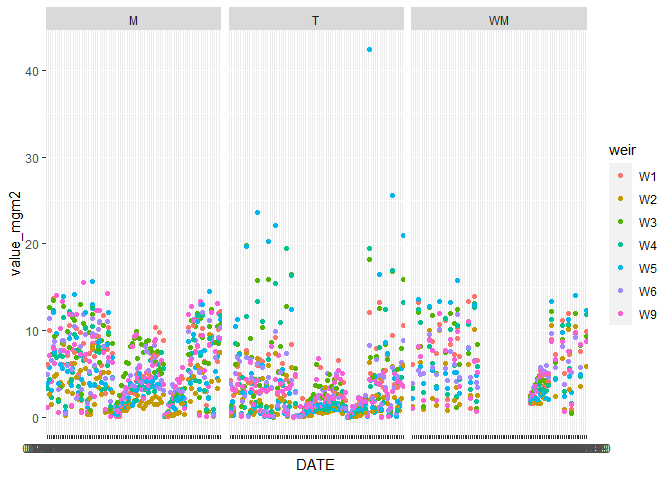
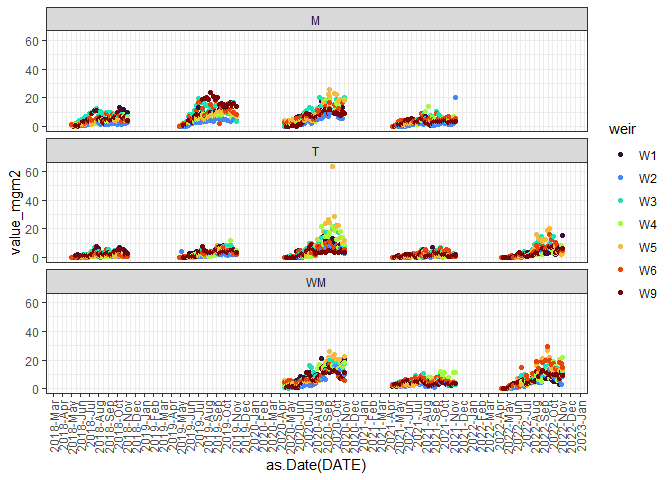
updating viz and md file

diff --git a/rfu-calculation-vignette.md b/rfu-calculation-vignette.md
@@ -3,13 +3,15 @@ rfu-calculation-vignette
 Audrey Thellman
 04/24/2021
 
+add dates & add when to update the samplelist on your local machine
+
 ## Introduction
 
 Converting between chlorophyll-a (chl-a) raw units (rfu) and
 mg/m<sup>2</sup> for the Hubbard Brook Experimental Forest long-term
 algal record
 
-To do this calculation, you need three five things:
+To do this calculation, you need these five things:
 
 - The sample list file (sample ID, sampling date, substrate, and
   watershed, or weir)
@@ -51,6 +53,7 @@ library(tidyverse)
 library(lubridate)
 library(readxl)
 library(data.table)
+library(viridis)
 
 `%notin%` <- Negate(`%in%`)
 ```
@@ -60,7 +63,11 @@ Finally, this script uses Google Drive. Let’s authorize `tidyverse` to
 have access to our files. When prompted, check “see, edit, create, and
 delete all of your Google Drive files”
 
-![google drive authentication](raw%20data/google_drive_auth.PNG)
+<figure>
+<img src="raw%20data/google_drive_auth.PNG"
+alt="google drive authentication" />
+<figcaption aria-hidden="true">google drive authentication</figcaption>
+</figure>
 
 Check that `googledrive` is properly set-up by running this code:
 
@@ -201,8 +208,6 @@ surface area (`sa = TRUE`) for all files after 2020:
 chla <- get_chla_data_fr_drive(1, sa = TRUE)
 ```
 
-    ## Warning: Expecting numeric in B263 / R263C2: got 'NA'
-
 *The function will tell you what your last date entered is & the file
 you downloaded. Be sure this is a later date than the last chl-a value
 ran & the correct file*
@@ -264,7 +269,7 @@ chla[["rfu"]] %>% filter(SampleID %in% dups)
 ```
 
     ## # A tibble: 0 × 7
-    ## # … with 7 variables: Flr_sample <chr>, value_rfu <dbl>, short_id <dbl>,
+    ## # ℹ 7 variables: Flr_sample <chr>, value_rfu <dbl>, short_id <dbl>,
     ## #   SampleID <chr>, vol_Etoh <dbl>, run <chr>, Notes <chr>
 
 This will tell you if any of your samples are mislabeled:
@@ -296,11 +301,6 @@ missing_data_check <- function(year) {
 missing_data_check(2020)
 ```
 
-    ## [1] "CH200013 is missing from the RFU run sheet"
-    ## [2] "CH200014 is missing from the RFU run sheet"
-    ## [3] "CH200497 is missing from the RFU run sheet"
-    ## [4] "CH200498 is missing from the RFU run sheet"
-
 Now your data should have the required columns of a) rfu value, b)
 substrate, c) date, d) weir, and e) sampling ID which will give you
 substrate, date, and weir and we are ready to calculate chla to
@@ -310,7 +310,10 @@ mg/m<sup>2</sup>.
 
 To covert from rfu to mg/m<sup>2</sup> we use the following equation:
 
-![equation 1](raw%20data/equation_image.PNG)
+<figure>
+<img src="raw%20data/equation_image.PNG" alt="equation 1" />
+<figcaption aria-hidden="true">equation 1</figcaption>
+</figure>
 
 where `RFU` is the raw units (corrected by subtracting the average of
 the blanks), `Slope` is the standard slope (`rfu/(ug/L)`), `V` is the
@@ -324,8 +327,8 @@ slope ID (`slp_id`):
 rfu_to_mgm2 <- function(chla_list, slp_id) {
   
   #remember to comment out 
-  #chla_list <- chla
-  #slp_id <- "Duke2023"
+  # chla_list <- chla
+  # slp_id <- "Duke2023"
   
   slp_summary <- read_excel("./raw data/chla_standardcurve_summary.xlsx")
 
@@ -415,13 +418,22 @@ rfu_to_mgm2 <- function(chla_list, slp_id) {
       
       ## internal function 
       int_function <- function(rfu, vol, run, sa, slp, int) {
+        #remember to comment out 
+        # rfu = chla_mgm2$value_rfu[258]
+        # vol = chla_mgm2$vol_Etoh[258]
+        # run =  chla_mgm2$run[258]
+        # sa = chla_mgm2$surface_area[258]
+        # slp = chla_mgm2$slp[258]
+        # int = chla_mgm2$int[258]
+        ##
+        
         blankmeans <- 
           chla[["blanks"]] %>% group_by(run) %>% 
           summarise(blank_mean = mean(value_rfu, na.rm = T))
         rfu_cor1 <- rfu - blankmeans$blank_mean[which(blankmeans$run == run)] 
         rfu_cor <- ifelse(rfu_cor1 < 0, 0, rfu_cor1)
         
-        mg_m2 <- (rfu_cor*slp+int)*(1/1000)*(vol/1000)*(1/sa) #1000's for conversion factors 
+        mg_m2 <- (rfu_cor*slp+int)*(1/1000)*(vol/1000)*(1/sa) #1000's for conversion factors
         return(mg_m2)
         
       }
@@ -433,6 +445,8 @@ rfu_to_mgm2 <- function(chla_list, slp_id) {
                                      chla_mgm2$surface_area, 
                                      chla_mgm2$slp, 
                                      chla_mgm2$int)
+      
+      class(chla_mgm2$value_mgm2)
  
       if(sum(!is.na(chla_mgm2$notes_calculation)) > 1){
         warning("Some of the surface areas were replaced 
@@ -456,6 +470,11 @@ hbwtr_chla_mgm2_2020 <- rfu_to_mgm2(chla_list = chla, slp_id = "Cary2022")
 
     ## Warning in rfu_to_mgm2(chla_list = chla, slp_id = "Cary2022"): All duplicate
     ## values were removed to complete this analysis
+
+If you encounter errors at this step: 1. check if your runs are labeled
+correctly (e.g. “run 2” vs. “run2”) on the sample file and on the blanks
+dataframe 2. ensure your samplelist is updated 3. missing values in rfu
+are `NA` or removed
 
 Now, we can save a “tidy” output version of this data, keeping only the
 parts that we need:
@@ -482,17 +501,9 @@ l2 <- list.files(path = "./final data/", pattern = "20", full.names = T)
 l3 <- l2[l2 %notin% l]
 all_chla_new <- rbindlist(lapply(l3, read.csv))
 
-ggplot(data = all_chla_old %>% filter(rep %in% c("M", "T", "WM"))) + geom_point(aes(x = DATE, y = value_mgm2, color = weir)) + facet_grid(~rep)
+ggplot(data = all_chla_new %>% filter(rep %in% c("M", "T", "WM"))) + geom_point(aes(x = as.Date(DATE), y = value_mgm2, color = weir)) + facet_wrap(~rep, ncol = 1) + scale_color_viridis(discrete=TRUE, option = "turbo") + theme_bw() + theme(axis.text.x = element_text(angle = 90, vjust = 0.5, hjust=1)) + scale_x_date(breaks = "1 month", date_labels = "%Y-%b")
 ```
 
     ## Warning: Removed 2 rows containing missing values (`geom_point()`).
 
 ![](rfu-calculation-vignette_files/figure-gfm/viz-1.png)<!-- -->
-
-``` r
-ggplot(data = all_chla_new %>% filter(rep %in% c("M", "T", "WM"))) + geom_point(aes(x = DATE, y = value_mgm2, color = weir)) + facet_grid(~rep)
-```
-
-    ## Warning: Removed 2 rows containing missing values (`geom_point()`).
-
-![](rfu-calculation-vignette_files/figure-gfm/viz-2.png)<!-- -->
